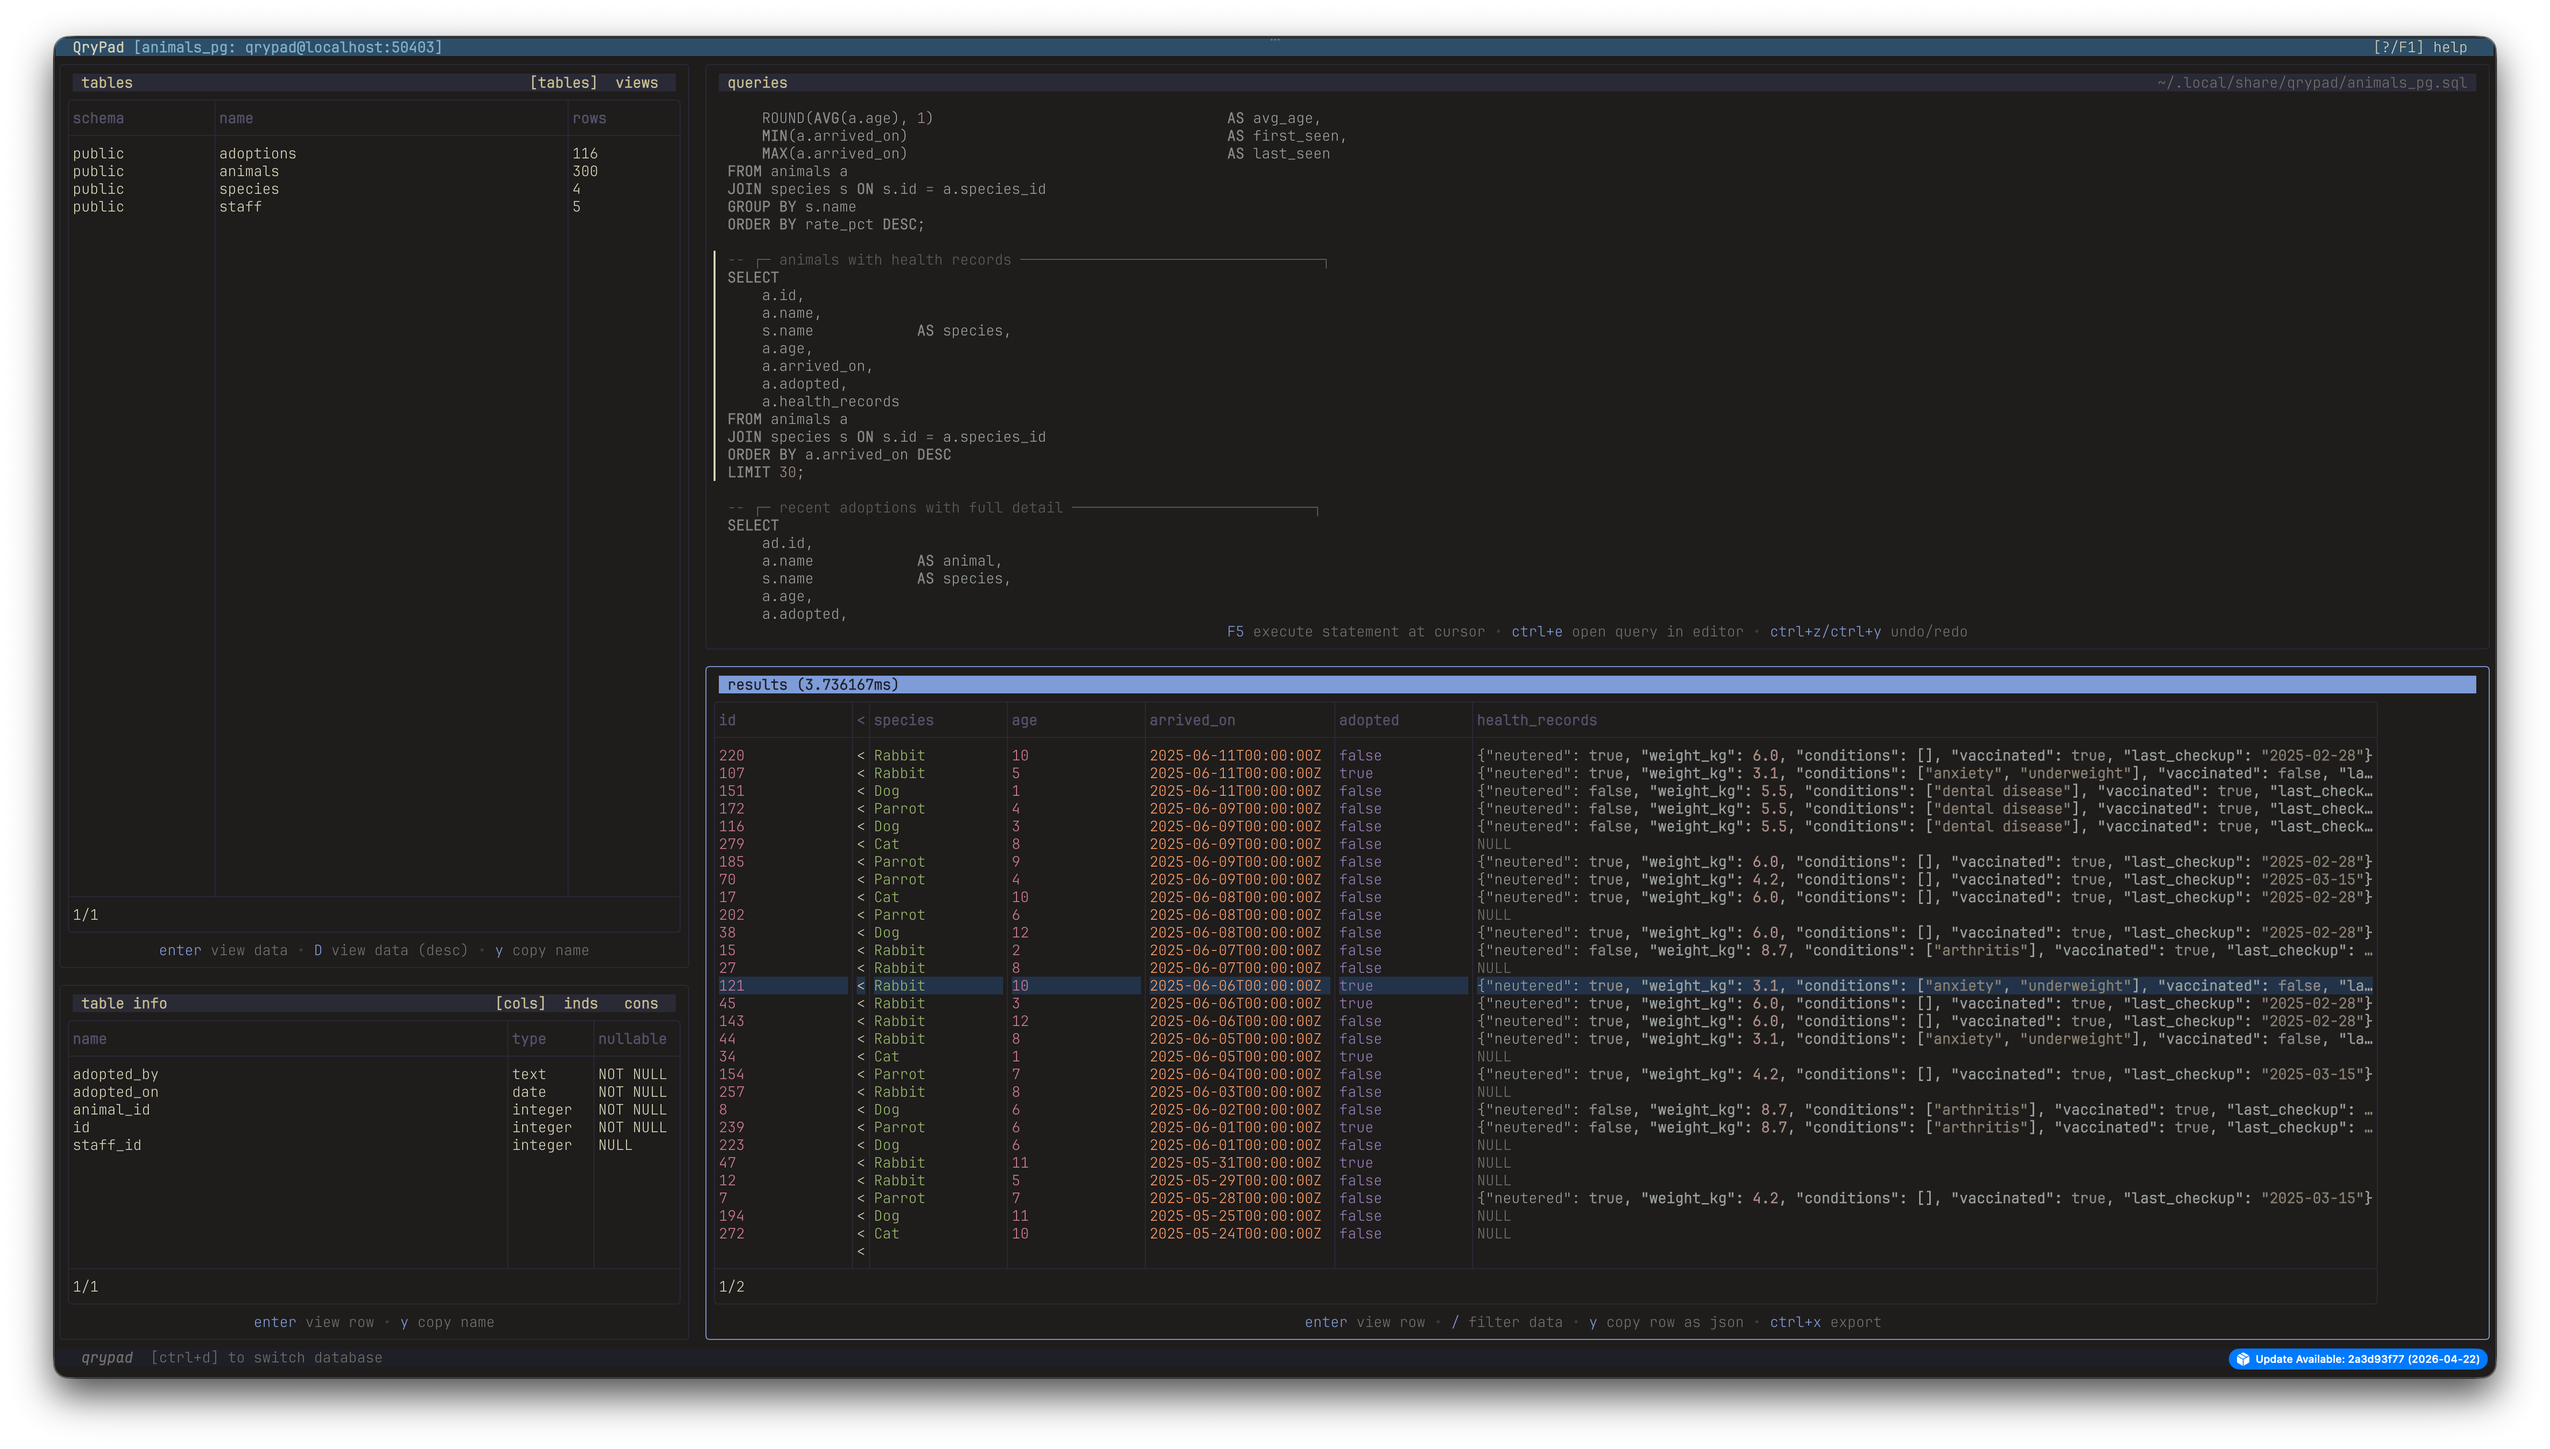
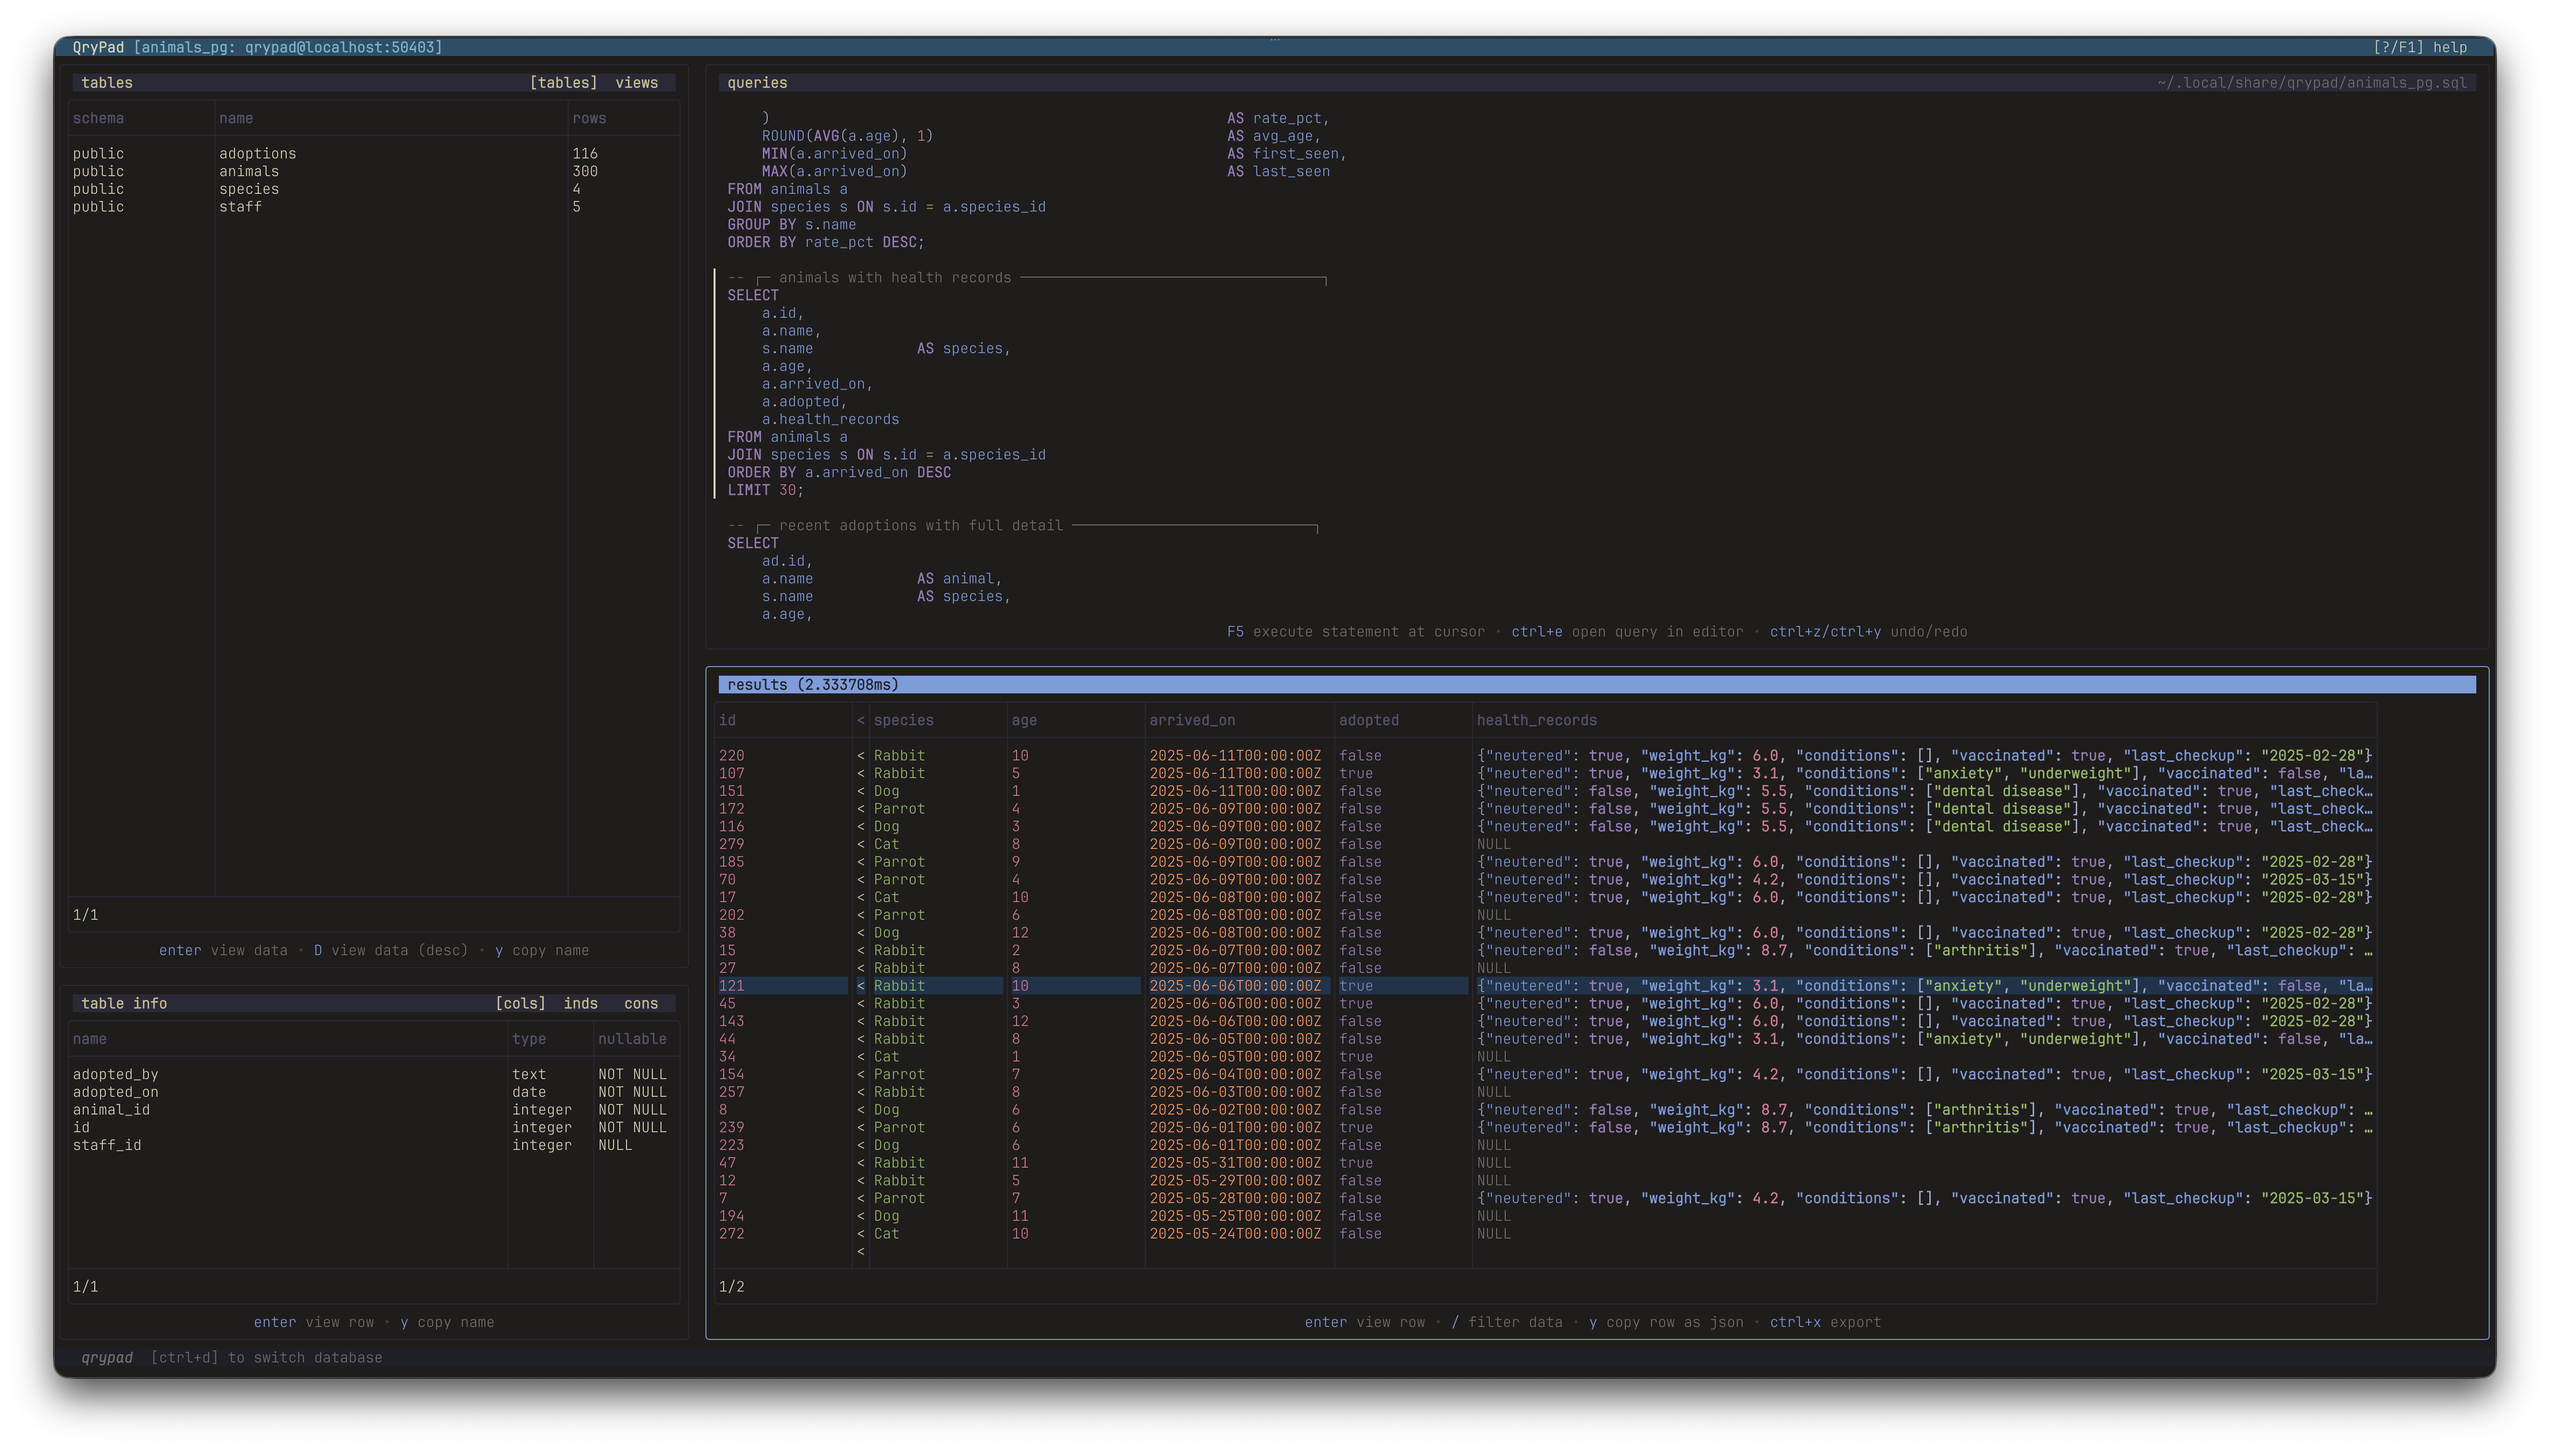
fix: use proper chroma terminal output for vivid syntax colours

diff --git a/internal/style/highlighting.go b/internal/style/highlighting.go
@@ -30,7 +30,7 @@ func highlightANSI(txt, lexer, logName string) string {
 	themeName := theme.GetTheme().ThemeName
 	var sb strings.Builder
 
-	if err := quick.Highlight(&sb, txt, lexer, "terminal256", themeName); err != nil {
+	if err := quick.Highlight(&sb, txt, lexer, "terminal16m", themeName); err != nil {
 		slog.Error("error highlighting "+logName, "error", err)
 		return txt
 	}
@@ -228,8 +228,8 @@ var fgColorPattern = regexp.MustCompile(`\x1b\[38;(?:5;(\d+)|2;(\d+);(\d+);(\d+)
 // (such as the output of ExtractStyledChar) and returns it as a color.Color.
 // Returns nil if no foreground color escape is found.
 //
-// Supports Chroma's terminal256 output (\x1b[38;5;Nm) and truecolor
-// (\x1b[38;2;R;G;Bm). This is used to read the syntax-highlight colour for a
+// Supports Chroma's terminal16m truecolor output (\x1b[38;2;R;G;Bm) and
+// terminal256 (\x1b[38;5;Nm). This is used to read the syntax-highlight colour for a
 // character so it can be applied to the cursor block rendering.
 func ParseFgColor(styled string) color.Color {
 	m := fgColorPattern.FindStringSubmatch(styled)
